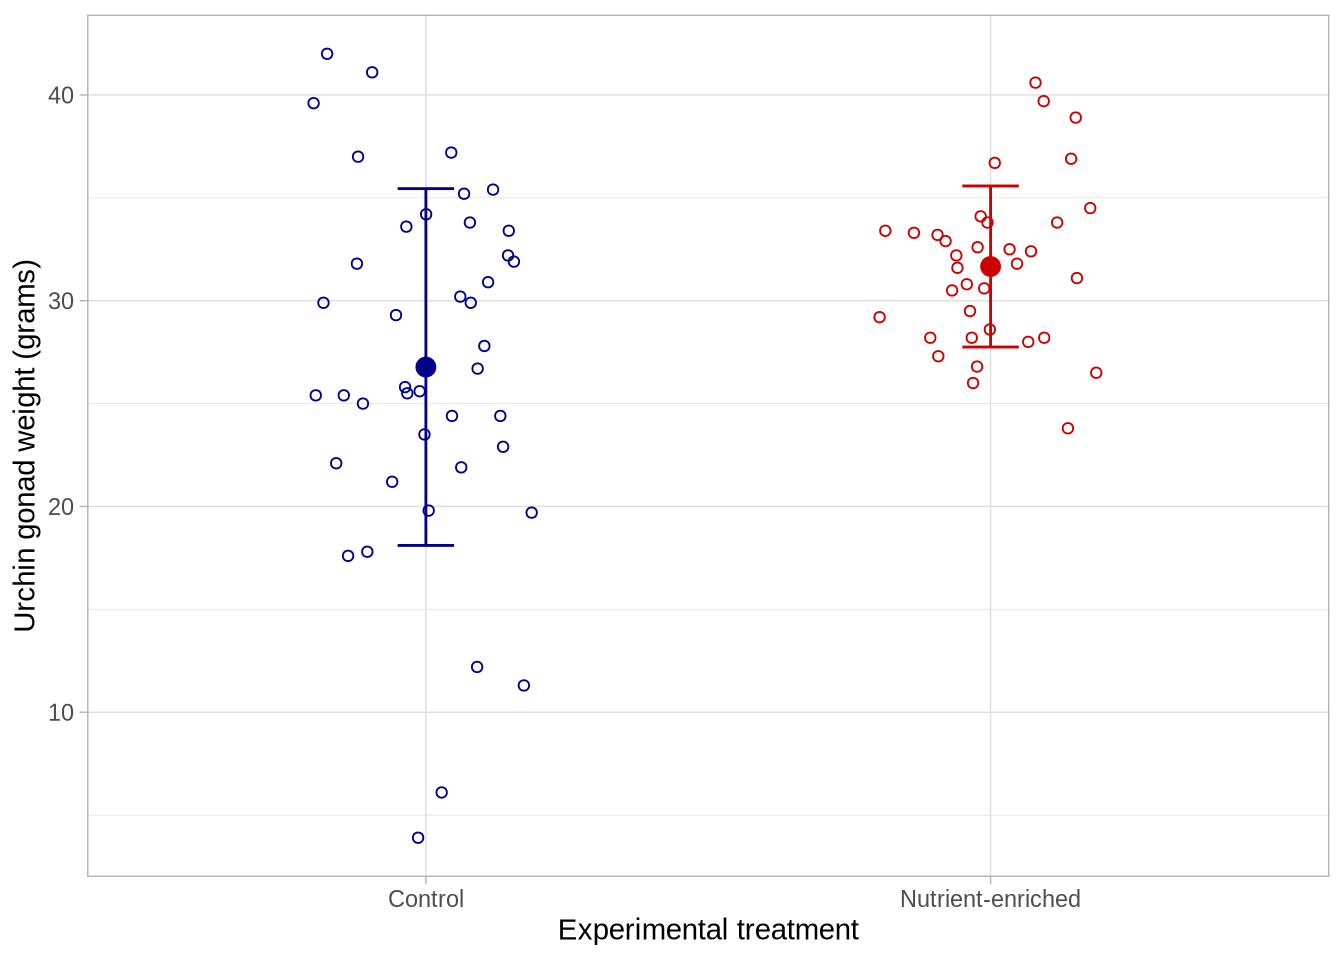
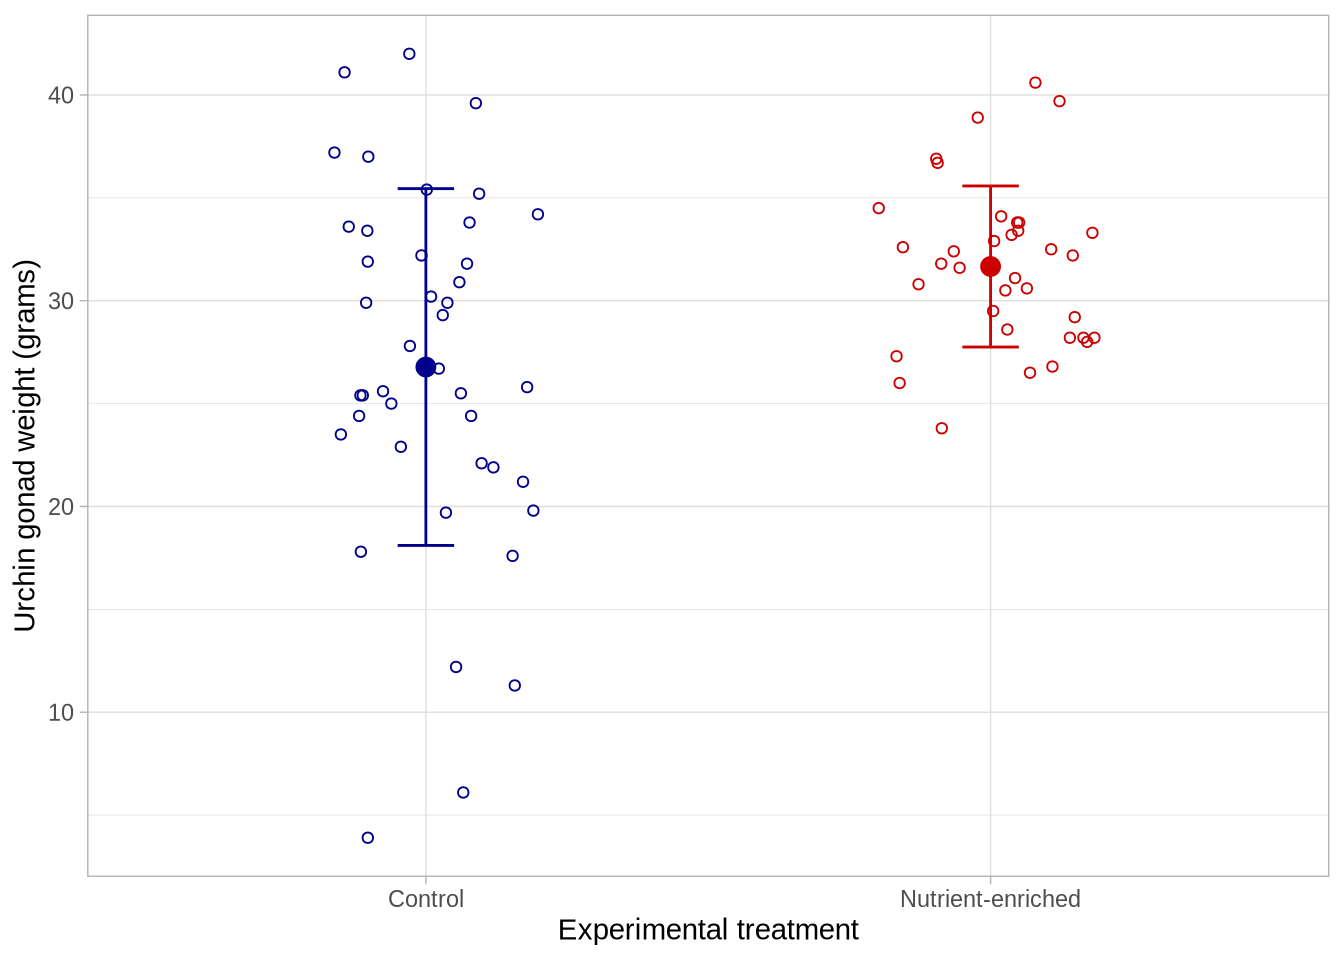
add custom css, create scss file

diff --git a/docs/posts/2026-06-02-urchin-weights/index.html b/docs/posts/2026-06-02-urchin-weights/index.html
@@ -78,7 +78,7 @@ pre > code.sourceCode > span > a:first-child::before { text-decoration: underlin
 <link href="../../site_libs/quarto-html/quarto-syntax-highlighting-7b89279ff1a6dce999919e0e67d4d9ec.css" rel="stylesheet" id="quarto-text-highlighting-styles">
 <script src="../../site_libs/bootstrap/bootstrap.min.js"></script>
 <link href="../../site_libs/bootstrap/bootstrap-icons.css" rel="stylesheet">
-<link href="../../site_libs/bootstrap/bootstrap-f7ac19f99b1bffdb182407b6a99bda4a.min.css" rel="stylesheet" append-hash="true" id="quarto-bootstrap" data-mode="light">
+<link href="../../site_libs/bootstrap/bootstrap-bf91360afbb7bce8e5bb50478cbc059e.min.css" rel="stylesheet" append-hash="true" id="quarto-bootstrap" data-mode="light">
 <script id="quarto-search-options" type="application/json">{
   "location": "navbar",
   "copy-button": false,
@@ -137,7 +137,6 @@ window.Quarto = {
 };
 </script>
 
-<link rel="stylesheet" href="../../styles.css">
 </head>
 
 <body class="nav-fixed quarto-light">
@@ -301,16 +300,16 @@ window.Quarto = {
 <pre><code># A tibble: 10 × 2
    experimental_treatment weight_g
    &lt;chr&gt;                     &lt;dbl&gt;
- 1 Nutrient-enriched          27.3
- 2 Nutrient-enriched          40.6
- 3 Nutrient-enriched          30.6
- 4 Control                    33.8
- 5 Nutrient-enriched          34.1
- 6 Control                    29.9
- 7 Nutrient-enriched          39.7
- 8 Control                    11.3
- 9 Nutrient-enriched          33.3
-10 Control                    21.9</code></pre>
+ 1 Control                    21.9
+ 2 Nutrient-enriched          28.6
+ 3 Control                    35.2
+ 4 Nutrient-enriched          31.1
+ 5 Nutrient-enriched          26  
+ 6 Control                    29.3
+ 7 Nutrient-enriched          38.9
+ 8 Control                    39.6
+ 9 Control                     6.1
+10 Nutrient-enriched          30.6</code></pre>
 </div>
 </div>
 </section>
@@ -420,7 +419,6 @@ window.Quarto = {
 </section>
 <section id="g.-check-variances-with-a-gut-check-and-a-statistical-check" class="level2">
 <h2 class="anchored" data-anchor-id="g.-check-variances-with-a-gut-check-and-a-statistical-check">g. Check variances with a “gut check” and a statistical check</h2>
-<p>Calculate variances by treatment,</p>
 <div class="cell">
 <details class="code-fold">
 <summary>Code</summary>

diff --git a/styles.scss b/styles.scss
@@ -1,0 +1,21 @@
+/*-- scss:defaults --*/
+
+// Import fonts 
+@import url('https://fonts.googleapis.com/css2?family=Roboto+Serif:ital,opsz,wght@0,8..144,100..900;1,8..144,100..900&family=Young+Serif&display=swap');
+
+// Colors
+$maroon: #9C2853;
+$pink: #FAE8EF;
+
+// Base document colors
+$navbar-bg: $maroon; // navbar
+$navbar-hl: $pink; // highlight color when hovering over navbar links
+$body-bg: $pink; // page background 
+$link-color: $maroon; // hyperlinks 
+
+/*-- scss:rules --*/
+
+h1, h2 {
+  color: $maroon;
+}
+

diff --git a/docs/projects.html b/docs/projects.html
@@ -42,7 +42,7 @@ ul.task-list li input[type="checkbox"] {
 <link href="site_libs/quarto-html/quarto-syntax-highlighting-7b89279ff1a6dce999919e0e67d4d9ec.css" rel="stylesheet" id="quarto-text-highlighting-styles">
 <script src="site_libs/bootstrap/bootstrap.min.js"></script>
 <link href="site_libs/bootstrap/bootstrap-icons.css" rel="stylesheet">
-<link href="site_libs/bootstrap/bootstrap-f7ac19f99b1bffdb182407b6a99bda4a.min.css" rel="stylesheet" append-hash="true" id="quarto-bootstrap" data-mode="light">
+<link href="site_libs/bootstrap/bootstrap-bf91360afbb7bce8e5bb50478cbc059e.min.css" rel="stylesheet" append-hash="true" id="quarto-bootstrap" data-mode="light">
 <script id="quarto-search-options" type="application/json">{
   "location": "navbar",
   "copy-button": false,
@@ -130,7 +130,6 @@ window.Quarto = {
 };
 </script>
 
-<link rel="stylesheet" href="styles.css">
 </head>
 
 <body class="nav-fixed quarto-light">
@@ -214,7 +213,7 @@ window.Quarto = {
 
 <div class="quarto-listing quarto-listing-container-grid" id="listing-listing">
 <div class="list grid quarto-listing-cols-3">
-<div class="g-col-1" data-index="0" data-listing-date-sort="1780383600000" data-listing-file-modified-sort="1780782788359" data-listing-date-modified-sort="NaN" data-listing-reading-time-sort="6" data-listing-word-count-sort="1192">
+<div class="g-col-1" data-index="0" data-listing-date-sort="1780383600000" data-listing-file-modified-sort="1780860583421" data-listing-date-modified-sort="NaN" data-listing-reading-time-sort="6" data-listing-word-count-sort="1188">
 <a href="./posts/2026-06-02-urchin-weights/index.html" class="quarto-grid-link">
 <div class="quarto-grid-item card h-100 card-left">
 <p class="card-img-top">

diff --git a/styles.css b/styles.css
@@ -1,7 +1,2 @@
 /* css styles */
 
-img, a img, .quarto-figure img {
-  opacity: 1.0 !important;
-  filter: none !important;
-  background-color: transparent !important;
-}

diff --git a/docs/experience.html b/docs/experience.html
@@ -40,7 +40,7 @@ ul.task-list li input[type="checkbox"] {
 <link href="site_libs/quarto-html/quarto-syntax-highlighting-7b89279ff1a6dce999919e0e67d4d9ec.css" rel="stylesheet" id="quarto-text-highlighting-styles">
 <script src="site_libs/bootstrap/bootstrap.min.js"></script>
 <link href="site_libs/bootstrap/bootstrap-icons.css" rel="stylesheet">
-<link href="site_libs/bootstrap/bootstrap-f7ac19f99b1bffdb182407b6a99bda4a.min.css" rel="stylesheet" append-hash="true" id="quarto-bootstrap" data-mode="light">
+<link href="site_libs/bootstrap/bootstrap-bf91360afbb7bce8e5bb50478cbc059e.min.css" rel="stylesheet" append-hash="true" id="quarto-bootstrap" data-mode="light">
 <script id="quarto-search-options" type="application/json">{
   "location": "navbar",
   "copy-button": false,
@@ -70,7 +70,6 @@ ul.task-list li input[type="checkbox"] {
 }</script>
 
 
-<link rel="stylesheet" href="styles.css">
 </head>
 
 <body class="nav-fixed quarto-light">

diff --git a/docs/index.html b/docs/index.html
@@ -39,7 +39,7 @@ ul.task-list li input[type="checkbox"] {
 <link href="site_libs/quarto-html/quarto-syntax-highlighting-7b89279ff1a6dce999919e0e67d4d9ec.css" rel="stylesheet" id="quarto-text-highlighting-styles">
 <script src="site_libs/bootstrap/bootstrap.min.js"></script>
 <link href="site_libs/bootstrap/bootstrap-icons.css" rel="stylesheet">
-<link href="site_libs/bootstrap/bootstrap-f7ac19f99b1bffdb182407b6a99bda4a.min.css" rel="stylesheet" append-hash="true" id="quarto-bootstrap" data-mode="light">
+<link href="site_libs/bootstrap/bootstrap-bf91360afbb7bce8e5bb50478cbc059e.min.css" rel="stylesheet" append-hash="true" id="quarto-bootstrap" data-mode="light">
 <script id="quarto-search-options" type="application/json">{
   "location": "navbar",
   "copy-button": false,
@@ -69,7 +69,6 @@ ul.task-list li input[type="checkbox"] {
 }</script>
 
 
-<link rel="stylesheet" href="styles.css">
 </head>
 
 <body class="nav-fixed quarto-light">

diff --git a/docs/posts/2026-05-30-resstock-article/index.html b/docs/posts/2026-05-30-resstock-article/index.html
@@ -43,7 +43,7 @@ ul.task-list li input[type="checkbox"] {
 <link href="../../site_libs/quarto-html/quarto-syntax-highlighting-7b89279ff1a6dce999919e0e67d4d9ec.css" rel="stylesheet" id="quarto-text-highlighting-styles">
 <script src="../../site_libs/bootstrap/bootstrap.min.js"></script>
 <link href="../../site_libs/bootstrap/bootstrap-icons.css" rel="stylesheet">
-<link href="../../site_libs/bootstrap/bootstrap-f7ac19f99b1bffdb182407b6a99bda4a.min.css" rel="stylesheet" append-hash="true" id="quarto-bootstrap" data-mode="light">
+<link href="../../site_libs/bootstrap/bootstrap-bf91360afbb7bce8e5bb50478cbc059e.min.css" rel="stylesheet" append-hash="true" id="quarto-bootstrap" data-mode="light">
 <script id="quarto-search-options" type="application/json">{
   "location": "navbar",
   "copy-button": false,
@@ -73,7 +73,6 @@ ul.task-list li input[type="checkbox"] {
 }</script>
 
 
-<link rel="stylesheet" href="../../styles.css">
 </head>
 
 <body class="nav-fixed quarto-light">

diff --git a/docs/posts/2026-06-02-disproportionality-tapestry/index.html b/docs/posts/2026-06-02-disproportionality-tapestry/index.html
@@ -43,7 +43,7 @@ ul.task-list li input[type="checkbox"] {
 <link href="../../site_libs/quarto-html/quarto-syntax-highlighting-7b89279ff1a6dce999919e0e67d4d9ec.css" rel="stylesheet" id="quarto-text-highlighting-styles">
 <script src="../../site_libs/bootstrap/bootstrap.min.js"></script>
 <link href="../../site_libs/bootstrap/bootstrap-icons.css" rel="stylesheet">
-<link href="../../site_libs/bootstrap/bootstrap-f7ac19f99b1bffdb182407b6a99bda4a.min.css" rel="stylesheet" append-hash="true" id="quarto-bootstrap" data-mode="light">
+<link href="../../site_libs/bootstrap/bootstrap-bf91360afbb7bce8e5bb50478cbc059e.min.css" rel="stylesheet" append-hash="true" id="quarto-bootstrap" data-mode="light">
 <script id="quarto-search-options" type="application/json">{
   "location": "navbar",
   "copy-button": false,
@@ -73,7 +73,6 @@ ul.task-list li input[type="checkbox"] {
 }</script>
 
 
-<link rel="stylesheet" href="../../styles.css">
 </head>
 
 <body class="nav-fixed quarto-light">

diff --git a/docs/things.html b/docs/things.html
@@ -40,7 +40,7 @@ ul.task-list li input[type="checkbox"] {
 <link href="site_libs/quarto-html/quarto-syntax-highlighting-7b89279ff1a6dce999919e0e67d4d9ec.css" rel="stylesheet" id="quarto-text-highlighting-styles">
 <script src="site_libs/bootstrap/bootstrap.min.js"></script>
 <link href="site_libs/bootstrap/bootstrap-icons.css" rel="stylesheet">
-<link href="site_libs/bootstrap/bootstrap-f7ac19f99b1bffdb182407b6a99bda4a.min.css" rel="stylesheet" append-hash="true" id="quarto-bootstrap" data-mode="light">
+<link href="site_libs/bootstrap/bootstrap-bf91360afbb7bce8e5bb50478cbc059e.min.css" rel="stylesheet" append-hash="true" id="quarto-bootstrap" data-mode="light">
 <script id="quarto-search-options" type="application/json">{
   "location": "navbar",
   "copy-button": false,
@@ -70,7 +70,6 @@ ul.task-list li input[type="checkbox"] {
 }</script>
 
 
-<link rel="stylesheet" href="styles.css">
 </head>
 
 <body class="nav-fixed quarto-light">